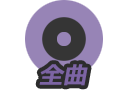
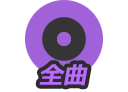
表示方法選択パネルを明るくした。

Changed region(s): [[0.1875, 0.0, 0.8125, 0.9348], [0.4375, 0.3478, 0.5625, 0.5]]

diff --git a/DTXMania2/ステージ/04選曲/表示方法選択パネル.cs b/DTXMania2/ステージ/04選曲/表示方法選択パネル.cs
@@ -50,8 +50,9 @@ namespace DTXMania2.選曲
 
                 const float パネル幅 = 144f;
                 画像.描画する(
-                    左位置: (float) ( 768f + パネル幅 * ( i + 差分 ) ),
-                    上位置: ( 3 == i ) ? 90f : 54f ); // i==3 が現在の選択パネル。他より下に描画。
+                    左位置: (float) ( 768f + パネル幅 * ( i - 差分 ) ),
+                    上位置: ( 3 == i ) ? 90f : 54f,            // i==3 が現在の選択パネル。他より下に描画。
+                    不透明度0to1: ( 3 == i ) ? 1f : 0.5f );    //          〃　　　　　　　他より明るく描画。
             }
         }
 
@@ -110,11 +111,11 @@ namespace DTXMania2.選曲
         {
             return ( 0 <= 論理パネル番号 ) ?
 
-                // 例:パネル数3の場合、正の時: 0,1,2,3,4,5,... → 0,1,2,0,1,2,...
+                // 例:パネル数 3 で論理パネル番号が正の時: 0,1,2,3,4,5,... → 実パネル番号 = 0,1,2,0,1,2,...
                 論理パネル番号 % this._パネルs.Count :
 
-                // 例:パネル数3の場合、負の時: -5,-4,-3,-2,-1,... → 1,2,0,1,2,...
-                this._パネルs.Count - ( ( -論理パネル番号 ) % this._パネルs.Count ) - 1;
+                // 例:パネル数 3 で論理パネル番号が負の時: -1,-2,-3,-4,-5,... → 実パネル番号 = 2,1,0,2,1,0,...
+                ( this._パネルs.Count - ( ( -論理パネル番号 ) % this._パネルs.Count )) % this._パネルs.Count;
         }
     }
 }

diff --git a/DTXMania2/曲/Tree/曲ツリー_評価順.cs b/DTXMania2/曲/Tree/曲ツリー_評価順.cs
@@ -52,11 +52,11 @@ namespace DTXMania2.曲
             // 評価BOX を追加する。
             var ratingBoxLabel = new[] {
                 "評価 なし",
-                "評価 ★",
-                "評価 ★★",
-                "評価 ★★★",
-                "評価 ★★★★",
-                "評価 ★★★★★",
+                "評価 ☆",
+                "評価 ☆☆",
+                "評価 ☆☆☆",
+                "評価 ☆☆☆☆",
+                "評価 ☆☆☆☆☆",
             };
             this._評価BOX = new BoxNode[ 6 ];   // 0～5
             for( int i = 0; i < this._評価BOX.Length; i++ )
